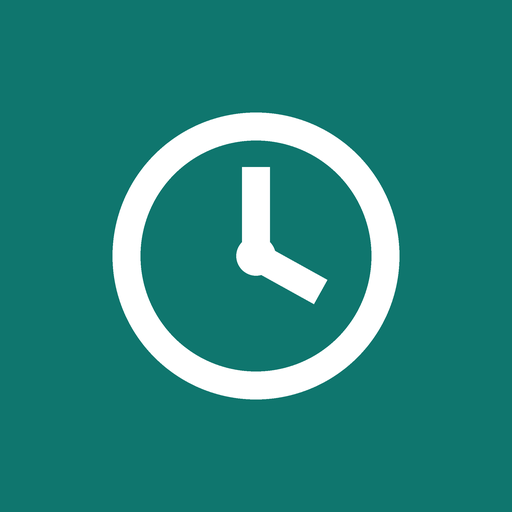
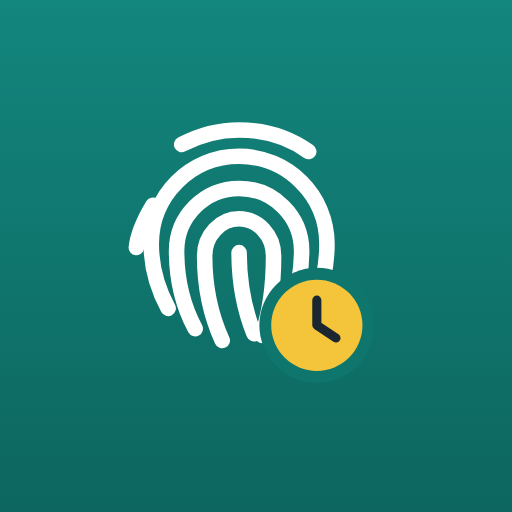
أيقونة جديدة (بصمة + ساعة) وشاشة تحميل متحركة (البصمة بتترسم)
Claude-Session: https://claude.ai/code/session_018CqAdZUCMgAae8hpvk5m1u

Changed region(s): [[0.2188, 0.2188, 0.7812, 0.7812]]

diff --git a/index.html b/index.html
@@ -223,9 +223,33 @@ dialog h2{margin:0 0 12px;font-size:18px;font-family:var(--f-display);font-weigh
 @media (max-width:380px){.seg button{font-size:12.5px}.totals{grid-template-columns:repeat(2,1fr)}}
 .set-row input,.set-row select{max-width:46%}
 html,body{overflow-x:hidden}
+
+/* شاشة التحميل */
+#splash{position:fixed;inset:0;z-index:100;background:#0F766E;display:flex;flex-direction:column;align-items:center;justify-content:center;gap:22px;transition:opacity .35s ease}
+#splash.out{opacity:0;pointer-events:none}
+.sp-fp{width:150px;height:150px;overflow:visible}
+.sp-lines path{fill:none;stroke:#fff;stroke-width:4.6;stroke-linecap:round;stroke-dasharray:1;stroke-dashoffset:1;animation:sp-draw .55s cubic-bezier(.4,0,.2,1) var(--d) forwards}
+.sp-scan{fill:#7FE0D2;opacity:0;animation:sp-scan .75s ease-in-out .25s forwards}
+.sp-clock{transform-box:fill-box;transform-origin:center;transform:scale(0);animation:sp-pop .35s cubic-bezier(.3,1.5,.6,1) .85s forwards}
+.sp-name{font-family:var(--f-display);font-weight:700;font-size:26px;color:#fff;word-spacing:.25em;opacity:0;transform:translateY(6px);animation:sp-in .4s ease .9s forwards}
+@keyframes sp-draw{to{stroke-dashoffset:0}}
+@keyframes sp-scan{0%{opacity:0;transform:translateY(0)}15%{opacity:1}85%{opacity:1}100%{opacity:0;transform:translateY(64px)}}
+@keyframes sp-pop{to{transform:scale(1)}}
+@keyframes sp-in{to{opacity:1;transform:none}}
+@media (prefers-reduced-motion:reduce){.sp-lines path,.sp-clock,.sp-name{animation:none;stroke-dashoffset:0;transform:none;opacity:1}.sp-scan{display:none}}
 </style>
 </head>
 <body>
+<div id="splash" aria-hidden="true">
+  <svg class="sp-fp" viewBox="0 0 100 100">
+    <g transform="translate(50 50) scale(.9) translate(-55 -53.5)">
+      <g class="sp-lines"><path pathLength="1" style="--d:0.00s" d="M33 20.5 C38.5 17.6 44 16.2 50 16.2 C58 16.2 65 18.6 70.6 22.6"/><path pathLength="1" style="--d:0.10s" d="M29 69 C25.5 62.5 24 56 24 50 C24 35.6 35.6 24 50 24 C64.4 24 76 35.6 76 50 C76 53.5 75.6 56.6 75 59.5"/><path pathLength="1" style="--d:0.20s" d="M24.5 38.5 C21.5 43.5 20 47 19.6 51"/><path pathLength="1" style="--d:0.30s" d="M37 75 C33.5 68.5 31.5 60.5 31.5 52 C31.5 41.8 39.8 33.5 50 33.5 C60.2 33.5 68.5 41.8 68.5 52 C68.5 55 68.2 57.8 67.8 60.3"/><path pathLength="1" style="--d:0.40s" d="M45 78.5 C41.8 71.5 39.8 63 39.8 53.5 C39.8 47.3 44.5 42.5 50 42.5 C55.5 42.5 60.2 47.3 60.2 53.5 C60.2 62.5 59 70.5 56.8 77"/><path pathLength="1" style="--d:0.50s" d="M50 52.5 C50 61.5 51.6 69.5 54.4 76.5"/></g>
+      <rect class="sp-scan" x="12" y="14" width="76" height="3" rx="1.5"/>
+      <g class="sp-clock"><circle cx="73" cy="74" r="17" fill="#0F766E"/><circle cx="73" cy="74" r="13.5" fill="#F4C53A"/><path d="M73 66.6V74l5.7 3.8" fill="none" stroke="#1B2730" stroke-width="2.7" stroke-linecap="round" stroke-linejoin="round"/></g>
+    </g>
+  </svg>
+  <div class="sp-name">الحضور والانصراف</div>
+</div>
 <header class="top">
   <div class="top-row">
     <div><h1>الحضور والانصراف</h1><div class="sub" id="subtitle"></div></div>

diff --git a/sw.js b/sw.js
@@ -1,4 +1,4 @@
-const CACHE = 'attendance-v5';
+const CACHE = 'attendance-v6';
 const FILES = ['./', 'index.html', 'app.js', 'engine.js', 'vendor/xlsx.full.min.js', 'manifest.json', 'icons/icon-192.png', 'icons/icon-512.png', 'fonts/ibm-plex-sans-arabic-arabic-400-normal.woff2', 'fonts/ibm-plex-sans-arabic-arabic-500-normal.woff2', 'fonts/ibm-plex-sans-arabic-arabic-600-normal.woff2', 'fonts/ibm-plex-sans-arabic-latin-400-normal.woff2', 'fonts/ibm-plex-sans-arabic-latin-600-normal.woff2', 'fonts/reem-kufi-arabic-500-normal.woff2', 'fonts/reem-kufi-arabic-700-normal.woff2'];
 self.addEventListener('install', e => { e.waitUntil(caches.open(CACHE).then(c => c.addAll(FILES))); self.skipWaiting(); });
 self.addEventListener('activate', e => { e.waitUntil(caches.keys().then(ks => Promise.all(ks.filter(k => k !== CACHE).map(k => caches.delete(k))))); self.clients.claim(); });

diff --git a/app.js b/app.js
@@ -668,6 +668,12 @@
   }
 
   /* ======================= البداية ======================= */
+  // شاشة التحميل: بتفضل لحد ما الأنيميشن يخلص (حوالي ثانية ونص) وبعدين تختفي
+  (function hideSplash() {
+    const sp = $('splash'); if (!sp) return;
+    const reduce = window.matchMedia && matchMedia('(prefers-reduced-motion: reduce)').matches;
+    setTimeout(() => { sp.classList.add('out'); setTimeout(() => sp.remove(), 400); }, reduce ? 500 : 1500);
+  })();
   normalize(); save();
   if (isNative()) $('file').removeAttribute('accept'); // عشان ملفات .dat تبان في اختيار الملفات
   render();
